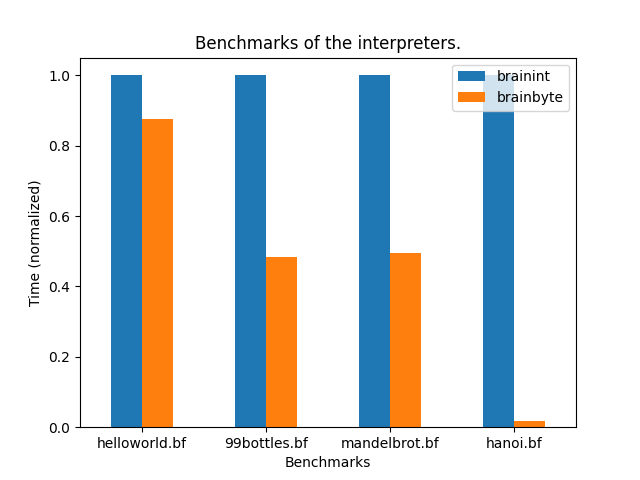
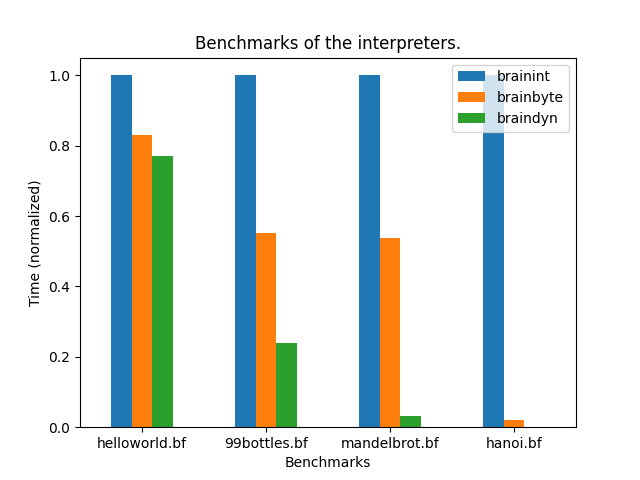
Finish the dynasm jit interpreter (braindyn)
This interpreter uses the same bytecode as brainbyte but instead of
directly executing them, it compiles them to native machine instructions
and later executes them instead.

To compile it uses luajits dynasm library.

Personally I am very happy with the results, and the charts
speak for themself. ^^

diff --git a/visualize.py b/visualize.py
@@ -4,8 +4,9 @@ import time
 import subprocess
 import pandas as pd
 import concurrent.futures
+import os
 
-PROGRAMS = ["brainint", "brainbyte"]
+PROGRAMS = ["brainint", "brainbyte", "braindyn"]
 BENCHMARKS = ["helloworld.bf", "99bottles.bf", "mandelbrot.bf", "hanoi.bf"]
 
 
@@ -66,7 +67,7 @@ def main():
 
     results = {b: dict() for b in BENCHMARKS}
     for target in targets:
-        elapsed_ms = run_multiple(target, 5)
+        elapsed_ms = run_multiple(target, max(4, os.cpu_count() // 2))
         results[target[1]][target[0]] = elapsed_ms
 
     plot(results)
